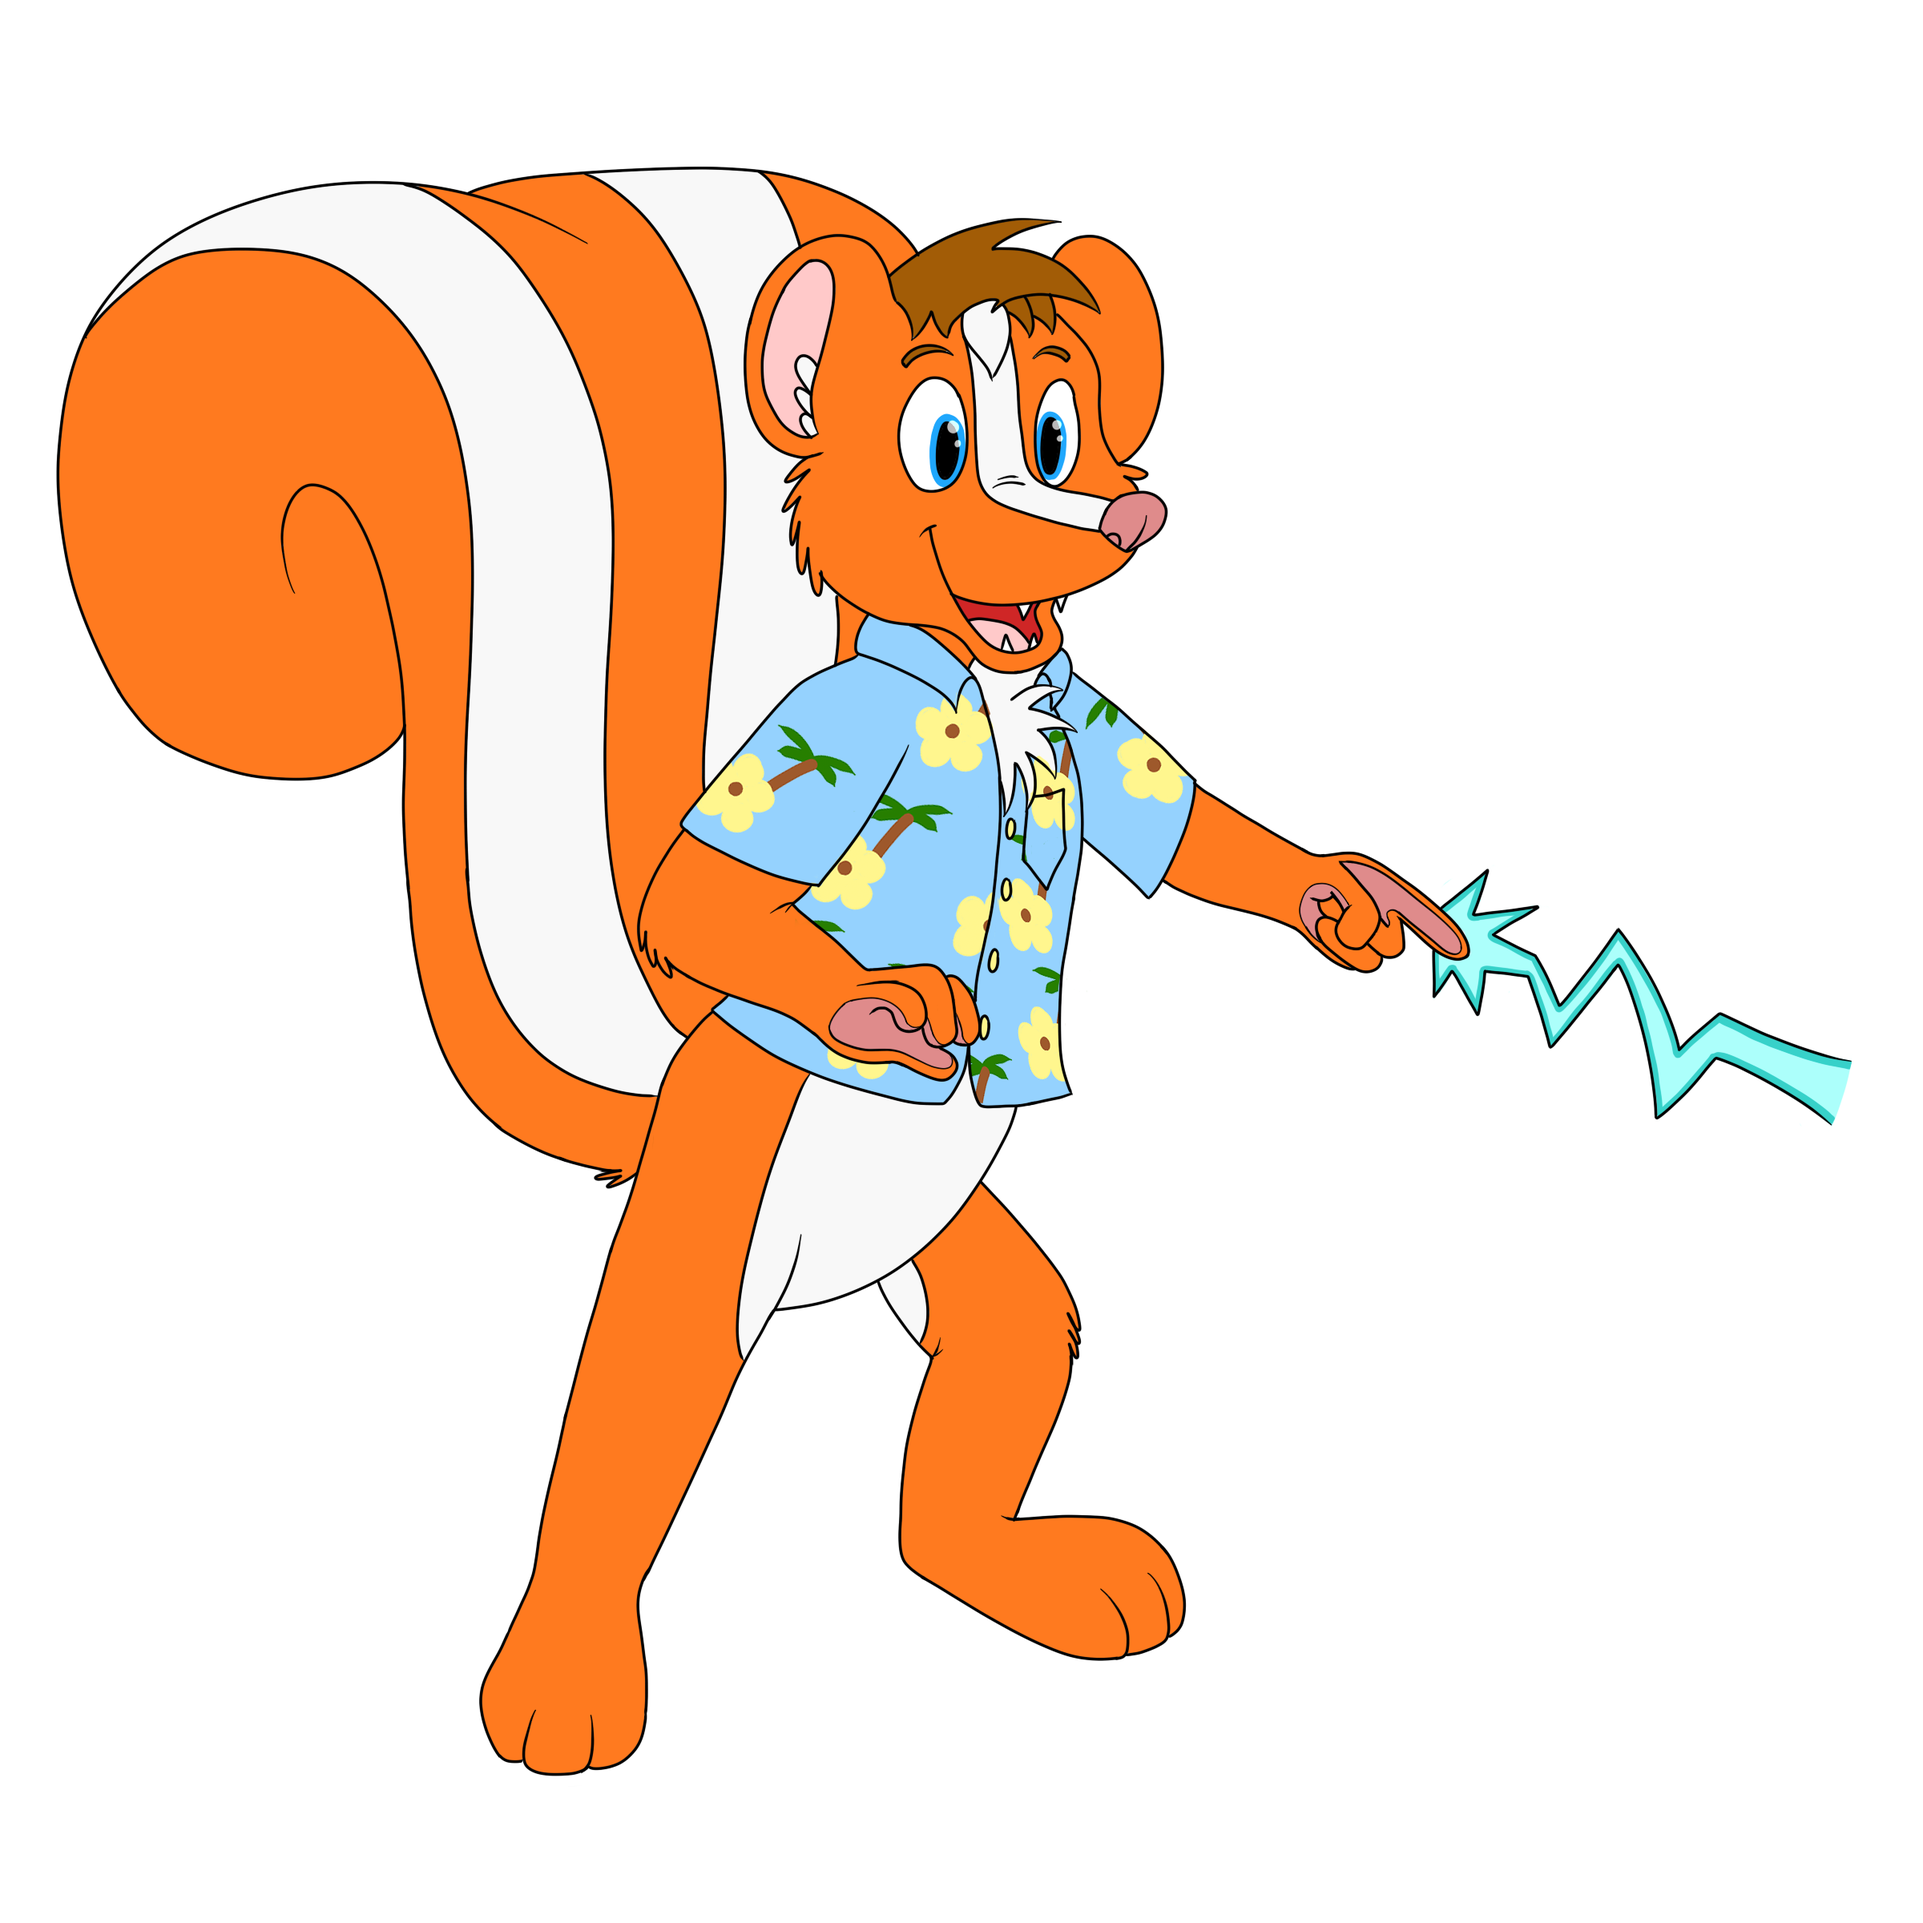
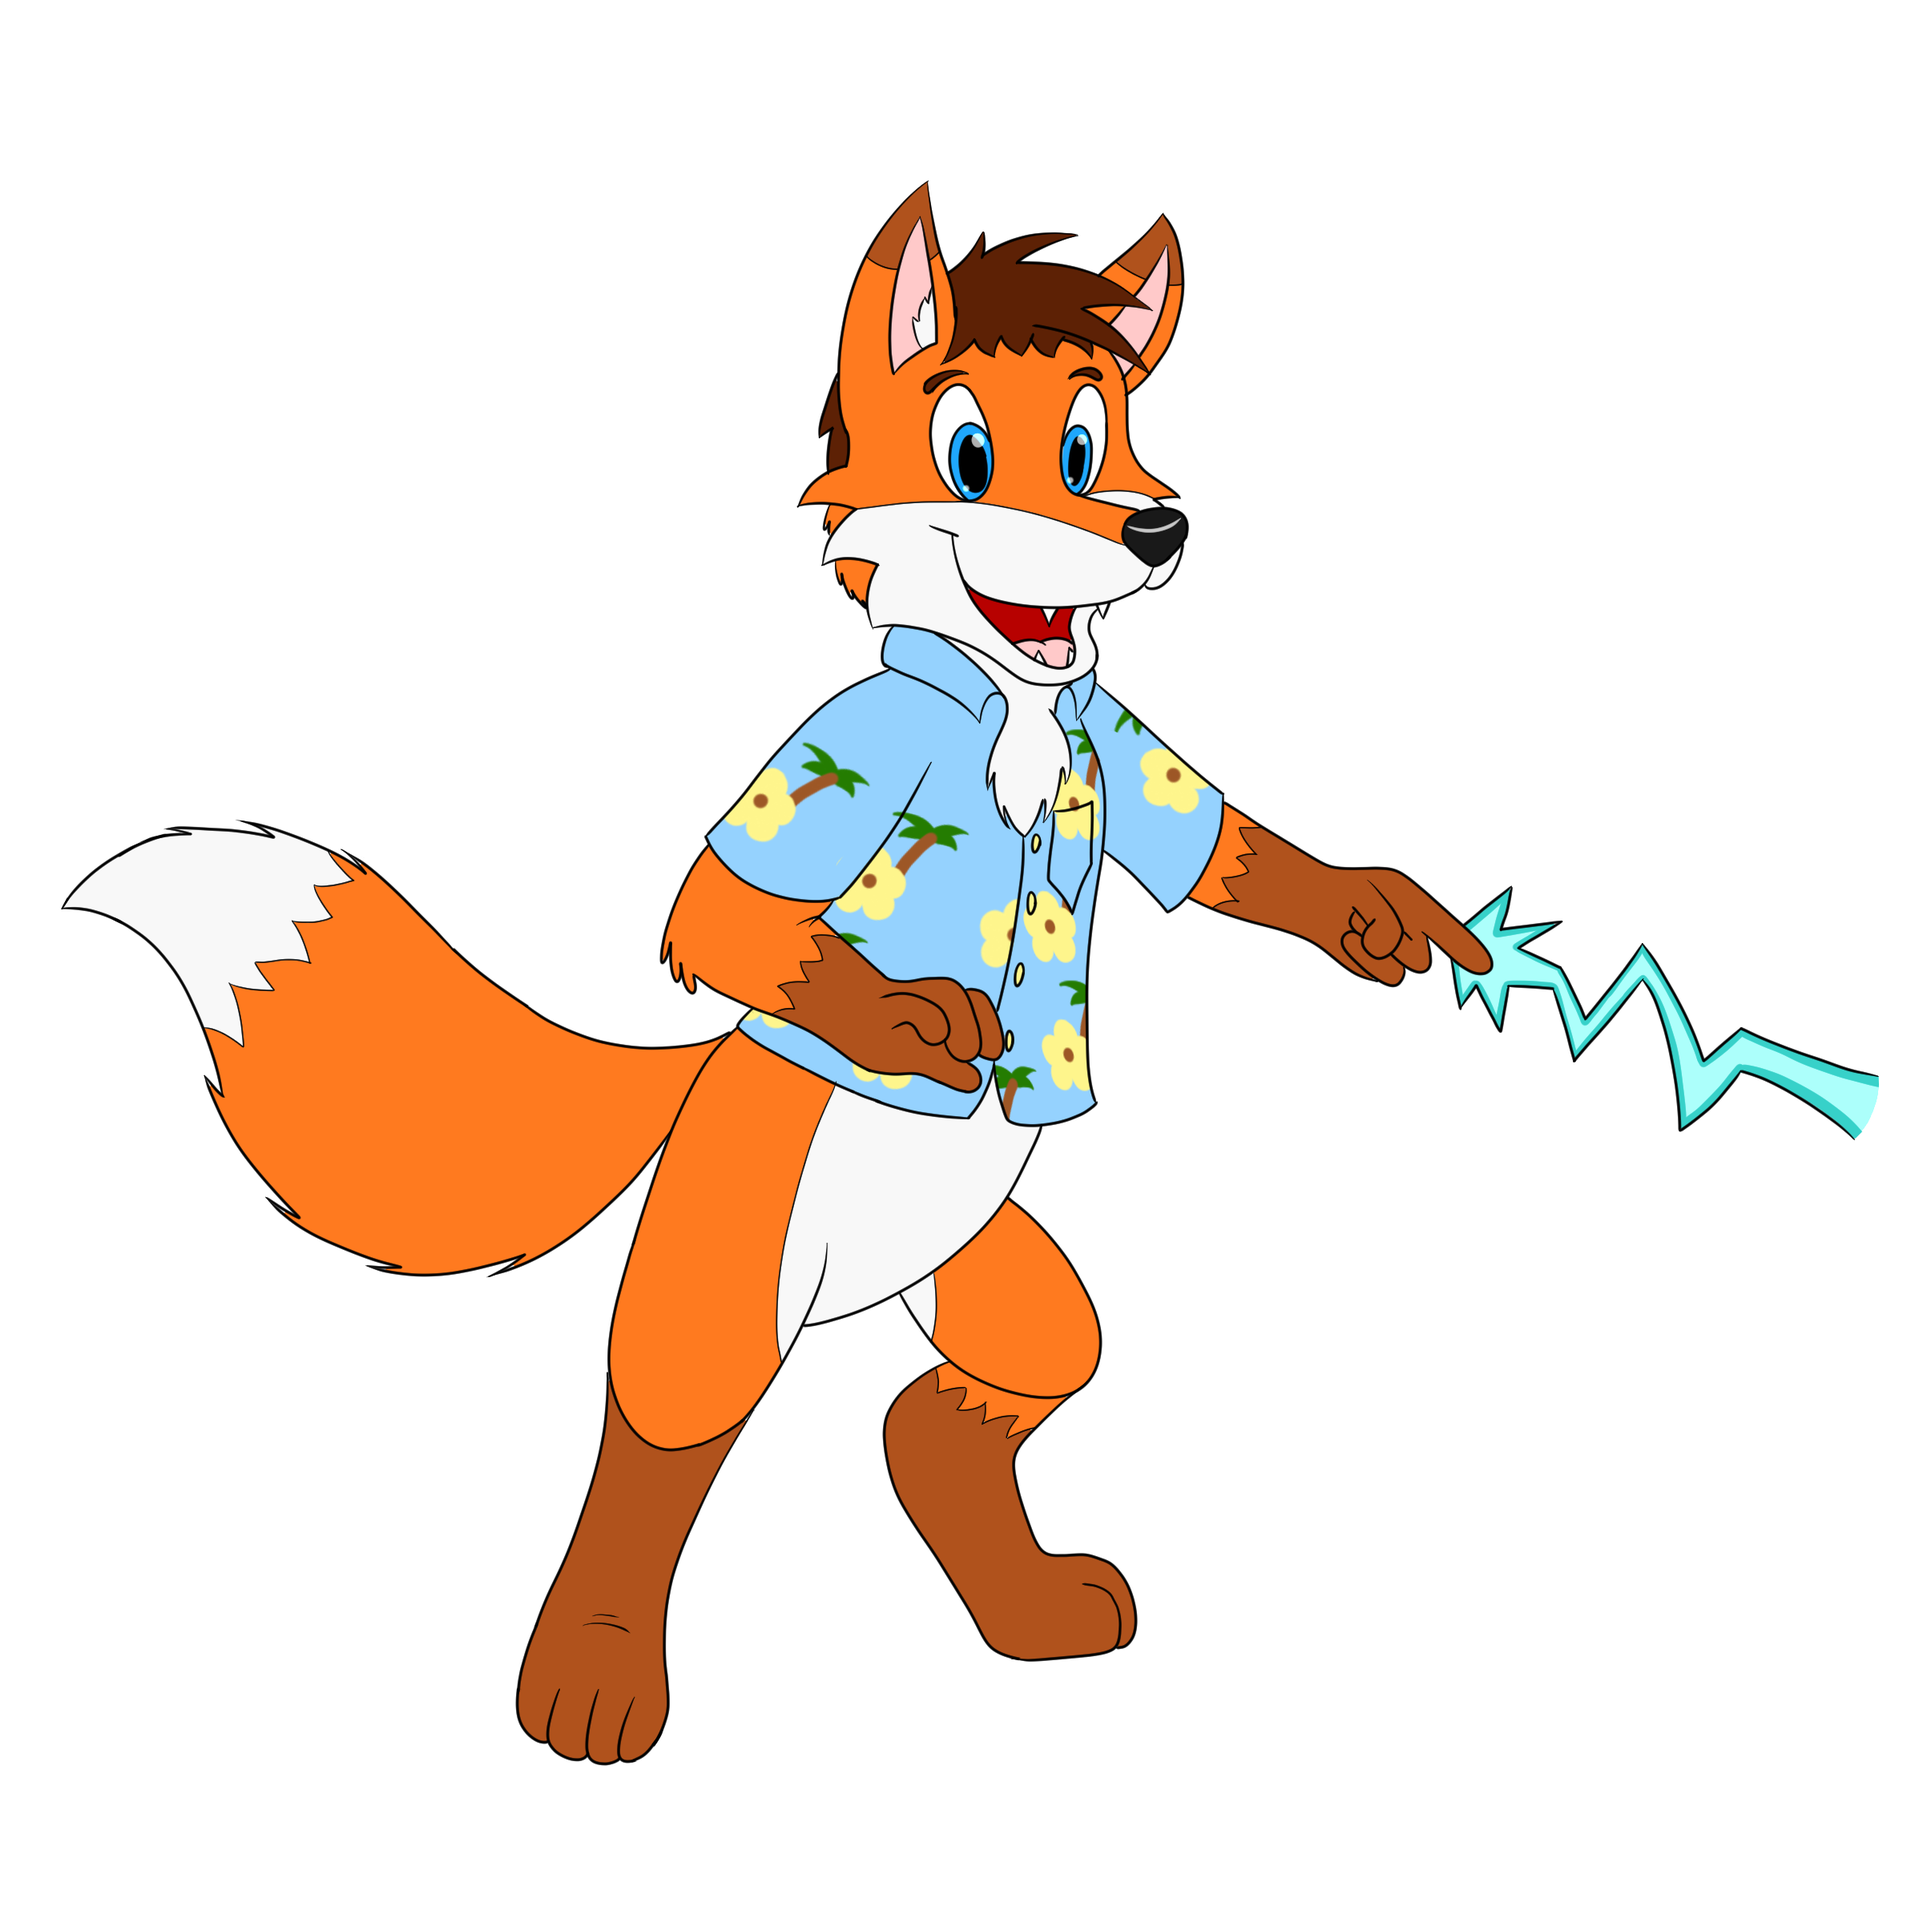
Updated magic zap image and fixed a bug on Chase's magic page

Changed region(s): [[0.0312, 0.0625, 1.0, 0.9375]]

diff --git a/src/main/resources/html/characters/chasemagic.html b/src/main/resources/html/characters/chasemagic.html
@@ -75,7 +75,7 @@
                     in the wrong hands.
                 </p>
                 <hr>
-                <div class="chase-magic-image chase2"></div>
+                <div class="chase-magic-image chase-magic-zap"></div>
                 <p class="chase-magic-text">
                     Chase's life force reserves give him mana for 10 charges of magic abilities. A simple shapeshift
                     costs him 1 charge. These simple shapeshifts require him to maintain his coloration and markings

diff --git a/src/main/resources/css/chase_style.css b/src/main/resources/css/chase_style.css
@@ -137,6 +137,13 @@
     width: 220px;
 }
 
+.chase-magic-zap {
+    background-image: url(../img/chase_magic_zap.png);
+    background-size: 220px;
+    height: 220px;
+    width: 220px;
+}
+
 .chase-runed {
     background-image: url(../img/chase_runed.png);
     background-size: 220px;
